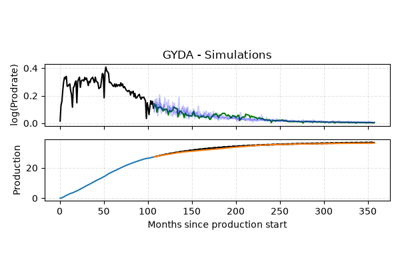
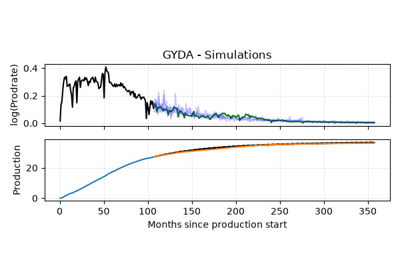
Update GitHub Pages

Changed region(s): [[0.39, 0.3143, 0.66, 0.4571], [0.72, 0.4, 0.75, 0.4571]]

diff --git a/sg_execution_times.html b/sg_execution_times.html
@@ -80,7 +80,7 @@
              
   <section id="computation-times">
 <span id="sphx-glr-sg-execution-times"></span><h1>Computation times<a class="headerlink" href="#computation-times" title="Link to this heading"></a></h1>
-<p><strong>00:07.294</strong> total execution time for 11 files <strong>from all galleries</strong>:</p>
+<p><strong>00:07.235</strong> total execution time for 11 files <strong>from all galleries</strong>:</p>
 <div class="docutils container">
 <style scoped>
 <link href="https://cdnjs.cloudflare.com/ajax/libs/twitter-bootstrap/5.3.0/css/bootstrap.min.css" rel="stylesheet" />
@@ -102,47 +102,47 @@ $(document).ready( function () {
 </thead>
 <tbody>
 <tr class="row-even"><td><p><a class="reference internal" href="examples_gallery/plot_well_plotting.html#sphx-glr-examples-gallery-plot-well-plotting-py"><span class="std std-ref">Well plotting methods</span></a> (<code class="docutils literal notranslate"><span class="pre">../examples/plot_well_plotting.py</span></code>)</p></td>
-<td><p>00:01.852</p></td>
+<td><p>00:01.768</p></td>
 <td><p>0.0</p></td>
 </tr>
 <tr class="row-odd"><td><p><a class="reference internal" href="examples_gallery/plot_prior_effect.html#sphx-glr-examples-gallery-plot-prior-effect-py"><span class="std std-ref">Effect of prior</span></a> (<code class="docutils literal notranslate"><span class="pre">../examples/plot_prior_effect.py</span></code>)</p></td>
-<td><p>00:01.502</p></td>
+<td><p>00:01.541</p></td>
 <td><p>0.0</p></td>
 </tr>
 <tr class="row-even"><td><p><a class="reference internal" href="examples_gallery/plot_models_with_increasing_complexity.html#sphx-glr-examples-gallery-plot-models-with-increasing-complexity-py"><span class="std std-ref">Increasing model complexity</span></a> (<code class="docutils literal notranslate"><span class="pre">../examples/plot_models_with_increasing_complexity.py</span></code>)</p></td>
-<td><p>00:01.100</p></td>
+<td><p>00:01.204</p></td>
 <td><p>0.0</p></td>
 </tr>
 <tr class="row-odd"><td><p><a class="reference internal" href="examples_gallery/plot_uncertainty.html#sphx-glr-examples-gallery-plot-uncertainty-py"><span class="std std-ref">Uncertainty</span></a> (<code class="docutils literal notranslate"><span class="pre">../examples/plot_uncertainty.py</span></code>)</p></td>
-<td><p>00:00.624</p></td>
+<td><p>00:00.560</p></td>
 <td><p>0.0</p></td>
 </tr>
-<tr class="row-even"><td><p><a class="reference internal" href="examples_gallery/plot_arps.html#sphx-glr-examples-gallery-plot-arps-py"><span class="std std-ref">Plot an Arps curve</span></a> (<code class="docutils literal notranslate"><span class="pre">../examples/plot_arps.py</span></code>)</p></td>
-<td><p>00:00.583</p></td>
+<tr class="row-even"><td><p><a class="reference internal" href="examples_gallery/plot_future_simulations.html#sphx-glr-examples-gallery-plot-future-simulations-py"><span class="std std-ref">Future simulations</span></a> (<code class="docutils literal notranslate"><span class="pre">../examples/plot_future_simulations.py</span></code>)</p></td>
+<td><p>00:00.501</p></td>
 <td><p>0.0</p></td>
 </tr>
-<tr class="row-odd"><td><p><a class="reference internal" href="examples_gallery/plot_future_simulations.html#sphx-glr-examples-gallery-plot-future-simulations-py"><span class="std std-ref">Future simulations</span></a> (<code class="docutils literal notranslate"><span class="pre">../examples/plot_future_simulations.py</span></code>)</p></td>
-<td><p>00:00.476</p></td>
+<tr class="row-odd"><td><p><a class="reference internal" href="examples_gallery/plot_arps.html#sphx-glr-examples-gallery-plot-arps-py"><span class="std std-ref">Plot an Arps curve</span></a> (<code class="docutils literal notranslate"><span class="pre">../examples/plot_arps.py</span></code>)</p></td>
+<td><p>00:00.489</p></td>
 <td><p>0.0</p></td>
 </tr>
 <tr class="row-even"><td><p><a class="reference internal" href="examples_gallery/plot_simulation_game.html#sphx-glr-examples-gallery-plot-simulation-game-py"><span class="std std-ref">Simulation game</span></a> (<code class="docutils literal notranslate"><span class="pre">../examples/plot_simulation_game.py</span></code>)</p></td>
-<td><p>00:00.410</p></td>
+<td><p>00:00.454</p></td>
 <td><p>0.0</p></td>
 </tr>
 <tr class="row-odd"><td><p><a class="reference internal" href="examples_gallery/plot_data_cleaning.html#sphx-glr-examples-gallery-plot-data-cleaning-py"><span class="std std-ref">Data cleaning</span></a> (<code class="docutils literal notranslate"><span class="pre">../examples/plot_data_cleaning.py</span></code>)</p></td>
-<td><p>00:00.314</p></td>
+<td><p>00:00.319</p></td>
 <td><p>0.0</p></td>
 </tr>
 <tr class="row-even"><td><p><a class="reference internal" href="examples_gallery/plot_arps_methods.html#sphx-glr-examples-gallery-plot-arps-methods-py"><span class="std std-ref">Curve methods</span></a> (<code class="docutils literal notranslate"><span class="pre">../examples/plot_arps_methods.py</span></code>)</p></td>
-<td><p>00:00.176</p></td>
+<td><p>00:00.164</p></td>
 <td><p>0.0</p></td>
 </tr>
 <tr class="row-odd"><td><p><a class="reference internal" href="examples_gallery/plot_loss_function_params.html#sphx-glr-examples-gallery-plot-loss-function-params-py"><span class="std std-ref">Loss function parameters</span></a> (<code class="docutils literal notranslate"><span class="pre">../examples/plot_loss_function_params.py</span></code>)</p></td>
-<td><p>00:00.150</p></td>
+<td><p>00:00.133</p></td>
 <td><p>0.0</p></td>
 </tr>
 <tr class="row-even"><td><p><a class="reference internal" href="examples_gallery/plot_arps_fit.html#sphx-glr-examples-gallery-plot-arps-fit-py"><span class="std std-ref">Fit an Arps curve</span></a> (<code class="docutils literal notranslate"><span class="pre">../examples/plot_arps_fit.py</span></code>)</p></td>
-<td><p>00:00.108</p></td>
+<td><p>00:00.103</p></td>
 <td><p>0.0</p></td>
 </tr>
 </tbody>

diff --git a/examples_gallery/sg_execution_times.html b/examples_gallery/sg_execution_times.html
@@ -80,7 +80,7 @@
              
   <section id="computation-times">
 <span id="sphx-glr-examples-gallery-sg-execution-times"></span><h1>Computation times<a class="headerlink" href="#computation-times" title="Link to this heading"></a></h1>
-<p><strong>00:07.294</strong> total execution time for 11 files <strong>from examples_gallery</strong>:</p>
+<p><strong>00:07.235</strong> total execution time for 11 files <strong>from examples_gallery</strong>:</p>
 <div class="docutils container">
 <style scoped>
 <link href="https://cdnjs.cloudflare.com/ajax/libs/twitter-bootstrap/5.3.0/css/bootstrap.min.css" rel="stylesheet" />
@@ -102,47 +102,47 @@ $(document).ready( function () {
 </thead>
 <tbody>
 <tr class="row-even"><td><p><a class="reference internal" href="plot_well_plotting.html#sphx-glr-examples-gallery-plot-well-plotting-py"><span class="std std-ref">Well plotting methods</span></a> (<code class="docutils literal notranslate"><span class="pre">plot_well_plotting.py</span></code>)</p></td>
-<td><p>00:01.852</p></td>
+<td><p>00:01.768</p></td>
 <td><p>0.0</p></td>
 </tr>
 <tr class="row-odd"><td><p><a class="reference internal" href="plot_prior_effect.html#sphx-glr-examples-gallery-plot-prior-effect-py"><span class="std std-ref">Effect of prior</span></a> (<code class="docutils literal notranslate"><span class="pre">plot_prior_effect.py</span></code>)</p></td>
-<td><p>00:01.502</p></td>
+<td><p>00:01.541</p></td>
 <td><p>0.0</p></td>
 </tr>
 <tr class="row-even"><td><p><a class="reference internal" href="plot_models_with_increasing_complexity.html#sphx-glr-examples-gallery-plot-models-with-increasing-complexity-py"><span class="std std-ref">Increasing model complexity</span></a> (<code class="docutils literal notranslate"><span class="pre">plot_models_with_increasing_complexity.py</span></code>)</p></td>
-<td><p>00:01.100</p></td>
+<td><p>00:01.204</p></td>
 <td><p>0.0</p></td>
 </tr>
 <tr class="row-odd"><td><p><a class="reference internal" href="plot_uncertainty.html#sphx-glr-examples-gallery-plot-uncertainty-py"><span class="std std-ref">Uncertainty</span></a> (<code class="docutils literal notranslate"><span class="pre">plot_uncertainty.py</span></code>)</p></td>
-<td><p>00:00.624</p></td>
+<td><p>00:00.560</p></td>
 <td><p>0.0</p></td>
 </tr>
-<tr class="row-even"><td><p><a class="reference internal" href="plot_arps.html#sphx-glr-examples-gallery-plot-arps-py"><span class="std std-ref">Plot an Arps curve</span></a> (<code class="docutils literal notranslate"><span class="pre">plot_arps.py</span></code>)</p></td>
-<td><p>00:00.583</p></td>
+<tr class="row-even"><td><p><a class="reference internal" href="plot_future_simulations.html#sphx-glr-examples-gallery-plot-future-simulations-py"><span class="std std-ref">Future simulations</span></a> (<code class="docutils literal notranslate"><span class="pre">plot_future_simulations.py</span></code>)</p></td>
+<td><p>00:00.501</p></td>
 <td><p>0.0</p></td>
 </tr>
-<tr class="row-odd"><td><p><a class="reference internal" href="plot_future_simulations.html#sphx-glr-examples-gallery-plot-future-simulations-py"><span class="std std-ref">Future simulations</span></a> (<code class="docutils literal notranslate"><span class="pre">plot_future_simulations.py</span></code>)</p></td>
-<td><p>00:00.476</p></td>
+<tr class="row-odd"><td><p><a class="reference internal" href="plot_arps.html#sphx-glr-examples-gallery-plot-arps-py"><span class="std std-ref">Plot an Arps curve</span></a> (<code class="docutils literal notranslate"><span class="pre">plot_arps.py</span></code>)</p></td>
+<td><p>00:00.489</p></td>
 <td><p>0.0</p></td>
 </tr>
 <tr class="row-even"><td><p><a class="reference internal" href="plot_simulation_game.html#sphx-glr-examples-gallery-plot-simulation-game-py"><span class="std std-ref">Simulation game</span></a> (<code class="docutils literal notranslate"><span class="pre">plot_simulation_game.py</span></code>)</p></td>
-<td><p>00:00.410</p></td>
+<td><p>00:00.454</p></td>
 <td><p>0.0</p></td>
 </tr>
 <tr class="row-odd"><td><p><a class="reference internal" href="plot_data_cleaning.html#sphx-glr-examples-gallery-plot-data-cleaning-py"><span class="std std-ref">Data cleaning</span></a> (<code class="docutils literal notranslate"><span class="pre">plot_data_cleaning.py</span></code>)</p></td>
-<td><p>00:00.314</p></td>
+<td><p>00:00.319</p></td>
 <td><p>0.0</p></td>
 </tr>
 <tr class="row-even"><td><p><a class="reference internal" href="plot_arps_methods.html#sphx-glr-examples-gallery-plot-arps-methods-py"><span class="std std-ref">Curve methods</span></a> (<code class="docutils literal notranslate"><span class="pre">plot_arps_methods.py</span></code>)</p></td>
-<td><p>00:00.176</p></td>
+<td><p>00:00.164</p></td>
 <td><p>0.0</p></td>
 </tr>
 <tr class="row-odd"><td><p><a class="reference internal" href="plot_loss_function_params.html#sphx-glr-examples-gallery-plot-loss-function-params-py"><span class="std std-ref">Loss function parameters</span></a> (<code class="docutils literal notranslate"><span class="pre">plot_loss_function_params.py</span></code>)</p></td>
-<td><p>00:00.150</p></td>
+<td><p>00:00.133</p></td>
 <td><p>0.0</p></td>
 </tr>
 <tr class="row-even"><td><p><a class="reference internal" href="plot_arps_fit.html#sphx-glr-examples-gallery-plot-arps-fit-py"><span class="std std-ref">Fit an Arps curve</span></a> (<code class="docutils literal notranslate"><span class="pre">plot_arps_fit.py</span></code>)</p></td>
-<td><p>00:00.108</p></td>
+<td><p>00:00.103</p></td>
 <td><p>0.0</p></td>
 </tr>
 </tbody>

diff --git a/examples_gallery/plot_data_cleaning.html b/examples_gallery/plot_data_cleaning.html
@@ -191,7 +191,7 @@ to download the full example code.</p>
 </span><span class="n">fig</span><span class="o">.</span><span class="n">tight_layout</span><span class="p">(</span><span class="p">)</span>  <span class="c1"># otherwise the right y-label is slightly clipped</span><span class="w">
 </span><span class="n">plt</span><span class="o">.</span><span class="n">show</span><span class="p">(</span><span class="p">)</span><span class="w">
 </span></pre></div></div>
-<p class="sphx-glr-timing"><strong>Total running time of the script:</strong> (0 minutes 0.314 seconds)</p>
+<p class="sphx-glr-timing"><strong>Total running time of the script:</strong> (0 minutes 0.319 seconds)</p>
 <div class="sphx-glr-footer sphx-glr-footer-example docutils container" id="sphx-glr-download-examples-gallery-plot-data-cleaning-py">
 <div class="sphx-glr-download sphx-glr-download-jupyter docutils container">
 <p><a class="reference download internal" download="" href="../_downloads/a977809b77ec50815597c1a88c9ceec1/plot_data_cleaning.ipynb"><code class="xref download docutils literal notranslate"><span class="pre">Download</span> <span class="pre">Jupyter</span> <span class="pre">notebook:</span> <span class="pre">plot_data_cleaning.ipynb</span></code></a></p>

diff --git a/examples_gallery/plot_models_with_increasing_complexity.html b/examples_gallery/plot_models_with_increasing_complexity.html
@@ -232,7 +232,7 @@ to download the full example code.</p>
 </span><span class="n">fig</span><span class="o">.</span><span class="n">tight_layout</span><span class="p">(</span><span class="p">)</span><span class="w">
 </span><span class="n">plt</span><span class="o">.</span><span class="n">show</span><span class="p">(</span><span class="p">)</span><span class="w">
 </span></pre></div></div>
-<p class="sphx-glr-timing"><strong>Total running time of the script:</strong> (0 minutes 1.100 seconds)</p>
+<p class="sphx-glr-timing"><strong>Total running time of the script:</strong> (0 minutes 1.204 seconds)</p>
 <div class="sphx-glr-footer sphx-glr-footer-example docutils container" id="sphx-glr-download-examples-gallery-plot-models-with-increasing-complexity-py">
 <div class="sphx-glr-download sphx-glr-download-jupyter docutils container">
 <p><a class="reference download internal" download="" href="../_downloads/ce19ee6c766f2b1a3fae8ef27431201c/plot_models_with_increasing_complexity.ipynb"><code class="xref download docutils literal notranslate"><span class="pre">Download</span> <span class="pre">Jupyter</span> <span class="pre">notebook:</span> <span class="pre">plot_models_with_increasing_complexity.ipynb</span></code></a></p>

diff --git a/examples_gallery/plot_simulation_game.html b/examples_gallery/plot_simulation_game.html
@@ -204,7 +204,7 @@ Can you guess where the training data ends and the simulation begins?</p>
 </span><span class="n">fig</span><span class="o">.</span><span class="n">tight_layout</span><span class="p">(</span><span class="p">)</span><span class="w">
 </span><span class="n">plt</span><span class="o">.</span><span class="n">show</span><span class="p">(</span><span class="p">)</span><span class="w">
 </span></pre></div></div>
-<p class="sphx-glr-timing"><strong>Total running time of the script:</strong> (0 minutes 0.410 seconds)</p>
+<p class="sphx-glr-timing"><strong>Total running time of the script:</strong> (0 minutes 0.454 seconds)</p>
 <div class="sphx-glr-footer sphx-glr-footer-example docutils container" id="sphx-glr-download-examples-gallery-plot-simulation-game-py">
 <div class="sphx-glr-download sphx-glr-download-jupyter docutils container">
 <p><a class="reference download internal" download="" href="../_downloads/a6cf2229cddd1992b51dc1b39d21b5b6/plot_simulation_game.ipynb"><code class="xref download docutils literal notranslate"><span class="pre">Download</span> <span class="pre">Jupyter</span> <span class="pre">notebook:</span> <span class="pre">plot_simulation_game.ipynb</span></code></a></p>

diff --git a/examples_gallery/plot_future_simulations.html b/examples_gallery/plot_future_simulations.html
@@ -219,7 +219,7 @@ to download the full example code.</p>
 </span><span class="n">fig</span><span class="o">.</span><span class="n">tight_layout</span><span class="p">(</span><span class="p">)</span><span class="w">
 </span><span class="n">plt</span><span class="o">.</span><span class="n">show</span><span class="p">(</span><span class="p">)</span><span class="w">
 </span></pre></div></div>
-<p class="sphx-glr-timing"><strong>Total running time of the script:</strong> (0 minutes 0.476 seconds)</p>
+<p class="sphx-glr-timing"><strong>Total running time of the script:</strong> (0 minutes 0.501 seconds)</p>
 <div class="sphx-glr-footer sphx-glr-footer-example docutils container" id="sphx-glr-download-examples-gallery-plot-future-simulations-py">
 <div class="sphx-glr-download sphx-glr-download-jupyter docutils container">
 <p><a class="reference download internal" download="" href="../_downloads/22cacbe6f1d06058b56df26a2e10a268/plot_future_simulations.ipynb"><code class="xref download docutils literal notranslate"><span class="pre">Download</span> <span class="pre">Jupyter</span> <span class="pre">notebook:</span> <span class="pre">plot_future_simulations.ipynb</span></code></a></p>

diff --git a/examples_gallery/plot_loss_function_params.html b/examples_gallery/plot_loss_function_params.html
@@ -187,7 +187,7 @@ to download the full example code.</p>
 </span><span class="n">plt</span><span class="o">.</span><span class="n">legend</span><span class="p">(</span><span class="p">)</span><span class="w">
 </span><span class="n">plt</span><span class="o">.</span><span class="n">show</span><span class="p">(</span><span class="p">)</span><span class="w">
 </span></pre></div></div>
-<p class="sphx-glr-timing"><strong>Total running time of the script:</strong> (0 minutes 0.150 seconds)</p>
+<p class="sphx-glr-timing"><strong>Total running time of the script:</strong> (0 minutes 0.133 seconds)</p>
 <div class="sphx-glr-footer sphx-glr-footer-example docutils container" id="sphx-glr-download-examples-gallery-plot-loss-function-params-py">
 <div class="sphx-glr-download sphx-glr-download-jupyter docutils container">
 <p><a class="reference download internal" download="" href="../_downloads/878443f9caf592f19c6c633c02305fc6/plot_loss_function_params.ipynb"><code class="xref download docutils literal notranslate"><span class="pre">Download</span> <span class="pre">Jupyter</span> <span class="pre">notebook:</span> <span class="pre">plot_loss_function_params.ipynb</span></code></a></p>

diff --git a/examples_gallery/plot_well_plotting.html b/examples_gallery/plot_well_plotting.html
@@ -166,7 +166,7 @@ to download the full example code.</p>
 </span><span class="n">fig</span><span class="o">.</span><span class="n">tight_layout</span><span class="p">(</span><span class="p">)</span><span class="w">
 </span><span class="n">plt</span><span class="o">.</span><span class="n">show</span><span class="p">(</span><span class="p">)</span><span class="w">
 </span></pre></div></div>
-<p class="sphx-glr-timing"><strong>Total running time of the script:</strong> (0 minutes 1.852 seconds)</p>
+<p class="sphx-glr-timing"><strong>Total running time of the script:</strong> (0 minutes 1.768 seconds)</p>
 <div class="sphx-glr-footer sphx-glr-footer-example docutils container" id="sphx-glr-download-examples-gallery-plot-well-plotting-py">
 <div class="sphx-glr-download sphx-glr-download-jupyter docutils container">
 <p><a class="reference download internal" download="" href="../_downloads/6c18a0ed7cfbb598f1eb955370dd4669/plot_well_plotting.ipynb"><code class="xref download docutils literal notranslate"><span class="pre">Download</span> <span class="pre">Jupyter</span> <span class="pre">notebook:</span> <span class="pre">plot_well_plotting.ipynb</span></code></a></p>

diff --git a/examples_gallery/plot_uncertainty.html b/examples_gallery/plot_uncertainty.html
@@ -202,7 +202,7 @@ Relative error in std: 0.010217
 </span><span class="n">fig</span><span class="o">.</span><span class="n">tight_layout</span><span class="p">(</span><span class="p">)</span><span class="w">
 </span><span class="n">plt</span><span class="o">.</span><span class="n">show</span><span class="p">(</span><span class="p">)</span><span class="w">
 </span></pre></div></div>
-<p class="sphx-glr-timing"><strong>Total running time of the script:</strong> (0 minutes 0.624 seconds)</p>
+<p class="sphx-glr-timing"><strong>Total running time of the script:</strong> (0 minutes 0.560 seconds)</p>
 <div class="sphx-glr-footer sphx-glr-footer-example docutils container" id="sphx-glr-download-examples-gallery-plot-uncertainty-py">
 <div class="sphx-glr-download sphx-glr-download-jupyter docutils container">
 <p><a class="reference download internal" download="" href="../_downloads/2ecda9e33133923af3891f335cb04427/plot_uncertainty.ipynb"><code class="xref download docutils literal notranslate"><span class="pre">Download</span> <span class="pre">Jupyter</span> <span class="pre">notebook:</span> <span class="pre">plot_uncertainty.ipynb</span></code></a></p>

diff --git a/examples_gallery/plot_prior_effect.html b/examples_gallery/plot_prior_effect.html
@@ -209,7 +209,7 @@ the prior lessens.</p>
 </span><span class="n">fig</span><span class="o">.</span><span class="n">tight_layout</span><span class="p">(</span><span class="p">)</span><span class="w">
 </span><span class="n">plt</span><span class="o">.</span><span class="n">show</span><span class="p">(</span><span class="p">)</span><span class="w">
 </span></pre></div></div>
-<p class="sphx-glr-timing"><strong>Total running time of the script:</strong> (0 minutes 1.502 seconds)</p>
+<p class="sphx-glr-timing"><strong>Total running time of the script:</strong> (0 minutes 1.541 seconds)</p>
 <div class="sphx-glr-footer sphx-glr-footer-example docutils container" id="sphx-glr-download-examples-gallery-plot-prior-effect-py">
 <div class="sphx-glr-download sphx-glr-download-jupyter docutils container">
 <p><a class="reference download internal" download="" href="../_downloads/73df2802b7b89b299e53b703f3a37ba6/plot_prior_effect.ipynb"><code class="xref download docutils literal notranslate"><span class="pre">Download</span> <span class="pre">Jupyter</span> <span class="pre">notebook:</span> <span class="pre">plot_prior_effect.ipynb</span></code></a></p>

diff --git a/examples_gallery/plot_arps_fit.html b/examples_gallery/plot_arps_fit.html
@@ -185,7 +185,7 @@ to download the full example code.</p>
 </span><span class="n">plt</span><span class="o">.</span><span class="n">legend</span><span class="p">(</span><span class="p">)</span><span class="w">
 </span><span class="n">plt</span><span class="o">.</span><span class="n">show</span><span class="p">(</span><span class="p">)</span><span class="w">
 </span></pre></div></div>
-<p class="sphx-glr-timing"><strong>Total running time of the script:</strong> (0 minutes 0.108 seconds)</p>
+<p class="sphx-glr-timing"><strong>Total running time of the script:</strong> (0 minutes 0.103 seconds)</p>
 <div class="sphx-glr-footer sphx-glr-footer-example docutils container" id="sphx-glr-download-examples-gallery-plot-arps-fit-py">
 <div class="sphx-glr-download sphx-glr-download-jupyter docutils container">
 <p><a class="reference download internal" download="" href="../_downloads/ddce2d4f4c3c0647a191c8b9fd0bced8/plot_arps_fit.ipynb"><code class="xref download docutils literal notranslate"><span class="pre">Download</span> <span class="pre">Jupyter</span> <span class="pre">notebook:</span> <span class="pre">plot_arps_fit.ipynb</span></code></a></p>

diff --git a/examples_gallery/plot_arps.html b/examples_gallery/plot_arps.html
@@ -146,7 +146,7 @@ to download the full example code.</p>
 </span><span class="n">plt</span><span class="o">.</span><span class="n">legend</span><span class="p">(</span><span class="p">)</span><span class="w">
 </span><span class="n">plt</span><span class="o">.</span><span class="n">show</span><span class="p">(</span><span class="p">)</span><span class="w">
 </span></pre></div></div>
-<p class="sphx-glr-timing"><strong>Total running time of the script:</strong> (0 minutes 0.583 seconds)</p>
+<p class="sphx-glr-timing"><strong>Total running time of the script:</strong> (0 minutes 0.489 seconds)</p>
 <div class="sphx-glr-footer sphx-glr-footer-example docutils container" id="sphx-glr-download-examples-gallery-plot-arps-py">
 <div class="sphx-glr-download sphx-glr-download-jupyter docutils container">
 <p><a class="reference download internal" download="" href="../_downloads/cf7905c17ce2b137a1fa0e9221636a26/plot_arps.ipynb"><code class="xref download docutils literal notranslate"><span class="pre">Download</span> <span class="pre">Jupyter</span> <span class="pre">notebook:</span> <span class="pre">plot_arps.ipynb</span></code></a></p>
